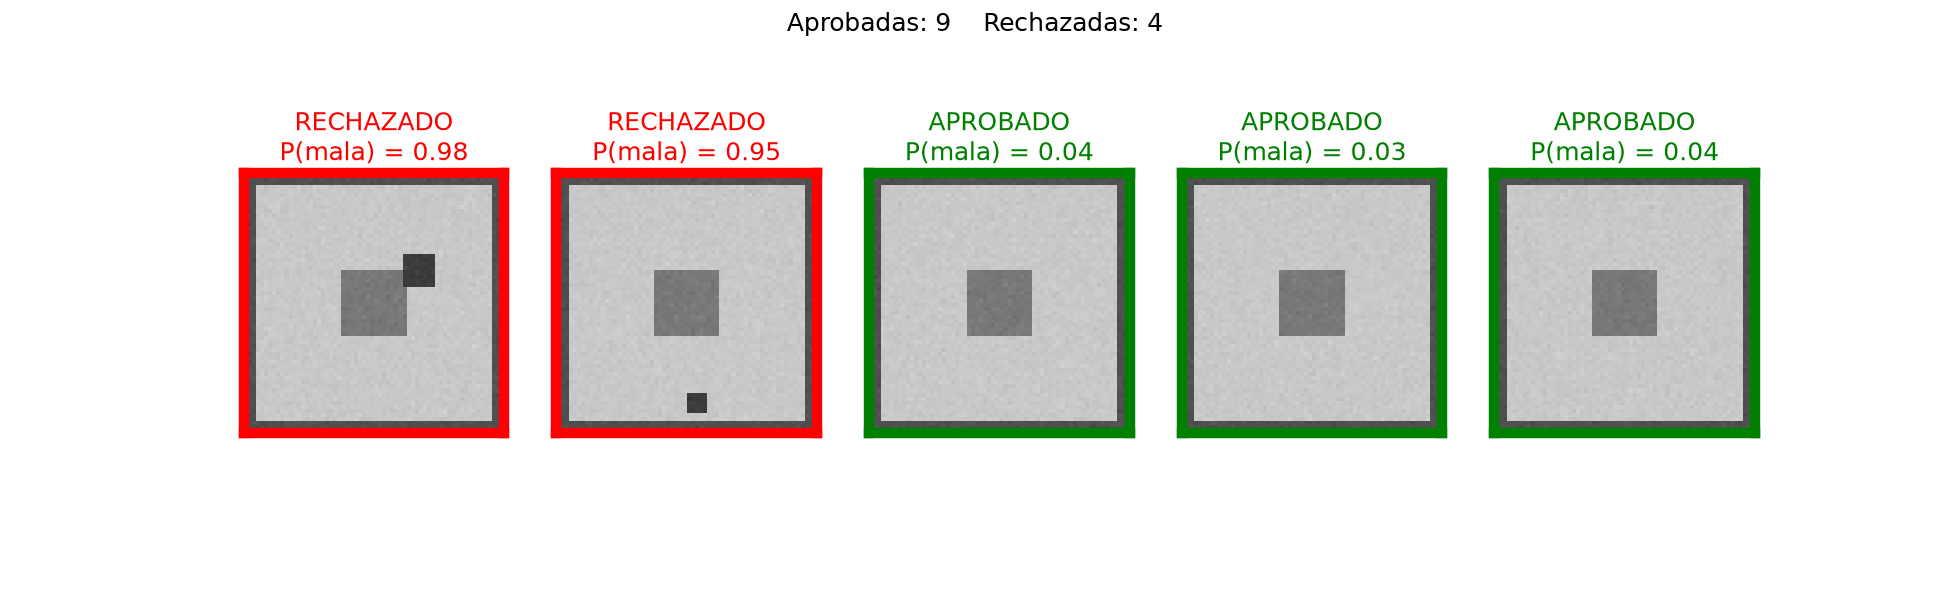
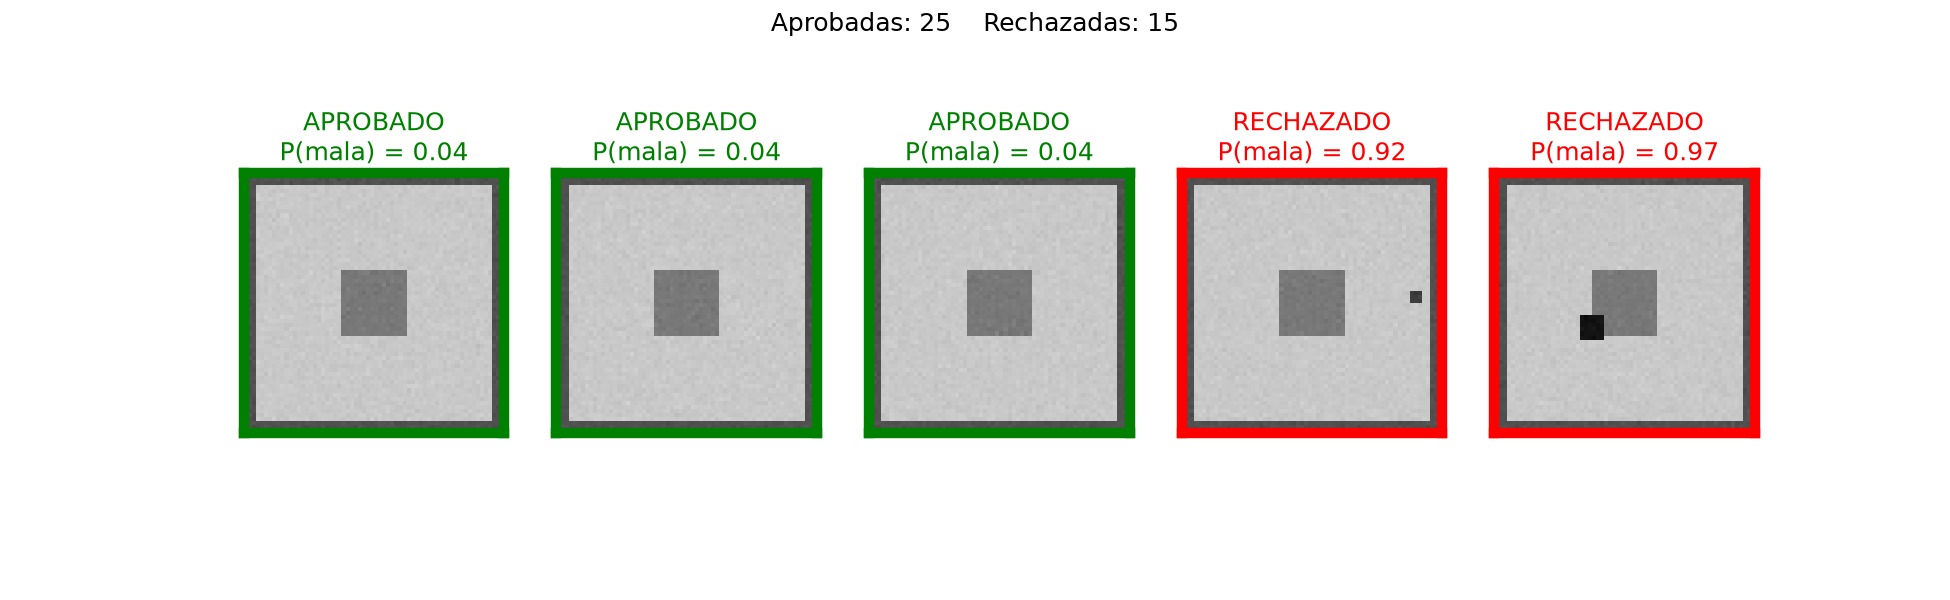
corrige contador de la cinta y completa conclusiones del README

diff --git a/src/etapa6.py b/src/etapa6.py
@@ -75,14 +75,8 @@ def actualizar(frame):
 
 os.makedirs("resultados", exist_ok=True)
 
-anim = FuncAnimation(
-    fig, 
-    actualizar, 
-    frames=40, 
-    interval=1000, 
-    repeat=False
-    )
-
+anim = FuncAnimation(fig, actualizar, frames=40, interval=1000, repeat=False,
+                     init_func=lambda: None)
 plt.show()
 
 fig.savefig("resultados/etapa6_cinta.png", dpi=150)
